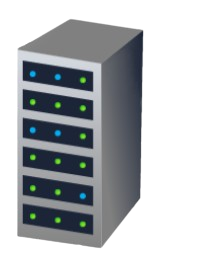
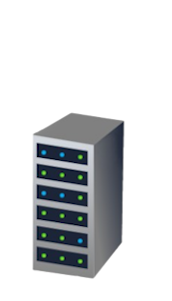
exo 1 fini

diff --git a/test/exo_1.php b/test/exo_1.php
@@ -846,13 +846,14 @@ if (!isset($_SESSION['cours1'])){
         }
 
         .table {
-            width: 15%;
             height: 50%;
+            width: 50%;
         }
 
         .request {
             /* border: 2px solid #000000; */
             border-collapse: collapse;
+            width: 100%;
         }
 
         .request th:nth-child(even) {
@@ -864,6 +865,7 @@ if (!isset($_SESSION['cours1'])){
             color: #ffffff;
             border: 2px solid #000000;
             margin: 10%;
+            justify-content: center;
         }
 
         .pair {
@@ -894,7 +896,10 @@ if (!isset($_SESSION['cours1'])){
         .text_table{
             padding: 1px 10px 1px 10px;
             min-height: 20px;
-            display: block;
+            min-width: 120px;
+            justify-content: center;
+
+            display: flex;
         }
 
     </style>
@@ -957,7 +962,7 @@ if (!isset($_SESSION['cours1'])){
                         <img src="../img/module/module-1/exo_1_desktop.png" alt="Desktop">
                     </div>
                     <div class="image-container" id="server-container">
-                        <img src="../img/module/module-1/exo_1_server1.png" alt="Server">
+                        <img id="serverImage" src="../img/module/module-1/exo_1_server.png" alt="Server">
                     </div>
                     <div class="table">
                         <table class="request">
@@ -1028,42 +1033,29 @@ if (!isset($_SESSION['cours1'])){
                 greenDot.remove();
                 var lignesVides = document.querySelectorAll('.text_table:empty');
                 if (lignesVides.length > 0) {
-                    lignesVides[0].textContent = 'ok';
+                    lignesVides[0].textContent = 'paquet n°' + Math.floor(Math.random() * 90000 + 10000);
                 }
-
-                document.querySelectorAll('.text_table').forEach(textTable => {
-                    setTimeout(() => {
-                        var ligneAsupprimer = document.getElementById('ligne2');
-                        ligneAsupprimer.textContent = ''; // Vide le contenu
-                    }, 1000); 
-                    document.getElementById('ligne2').textContent = document.getElementById('ligne3').textContent
-                    document.getElementById('ligne3').textContent = document.getElementById('ligne4').textContent;
-                    document.getElementById('ligne4').textContent = document.getElementById('ligne5').textContent;
-                    document.getElementById('ligne5').textContent = document.getElementById('ligne6').textContent;
-                    document.getElementById('ligne6').textContent = 'a';
-                });
+                else{
+                    const sendButton = document.getElementById('moveGreenDot');
+                    const serverImage = document.getElementById('serverImage');
+                    serverImage.src = '../img/module/module-1/exo_1_server_fire.png';
+                    const lignes = document.querySelectorAll('.text_table');
+                    for (let i = 1; i < lignes.length; i++) {
+                        lignes[i].textContent = 'erreur'; 
+                    }
+                    clearInterval(intervalId);
+                    sendButton.disabled = true;
+                }
             };
         });
 
-        // while (document.querySelectorAll('.text_table').length > 0) {
-        //     document.querySelectorAll('.text_table').forEach(textTable => {
-        //         textTable.textContent = '';
-        //     });
-        // }
-        document.querySelectorAll('.text_table').forEach(textTable => {
-            setTimeout(() => {
-                var ligneAsupprimer = document.getElementById('ligne2');
-                ligneAsupprimer.textContent = ''; // Vide le contenu
-            }, 1000); 
-        });
-        document.getElementById('ligne2').textContent = document.getElementById('ligne3').textContent;
-        document.getElementById('ligne3').textContent = document.getElementById('ligne4').textContent;
-        document.getElementById('ligne4').textContent = document.getElementById('ligne5').textContent;
-        document.getElementById('ligne5').textContent = document.getElementById('ligne6').textContent;
-        document.getElementById('ligne6').textContent = '';
-                
-
-
+        var intervalId = setInterval(() => {
+            const lignes = document.querySelectorAll('.text_table');
+            for (let i = 2; i < lignes.length; i++) {
+                lignes[i - 1].textContent = lignes[i].textContent; 
+            }
+            lignes[lignes.length - 1].textContent = ''; 
+        }, 1000);         
 
         document.getElementById('toggle-theme').addEventListener('click', function() {
             var xhr = new XMLHttpRequest();
